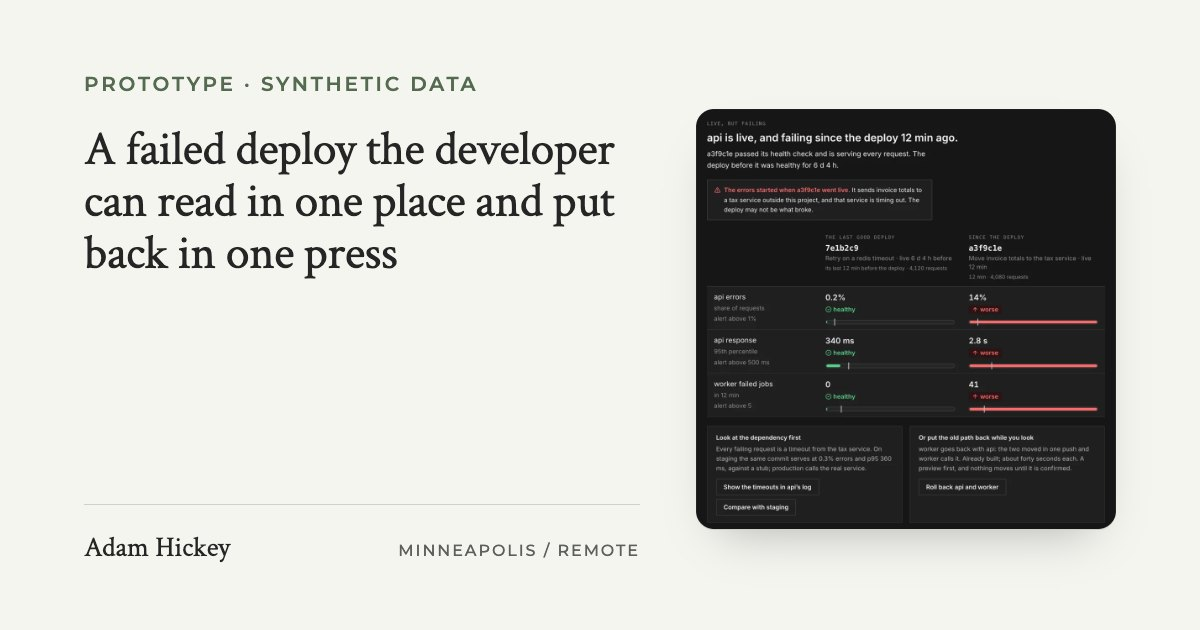
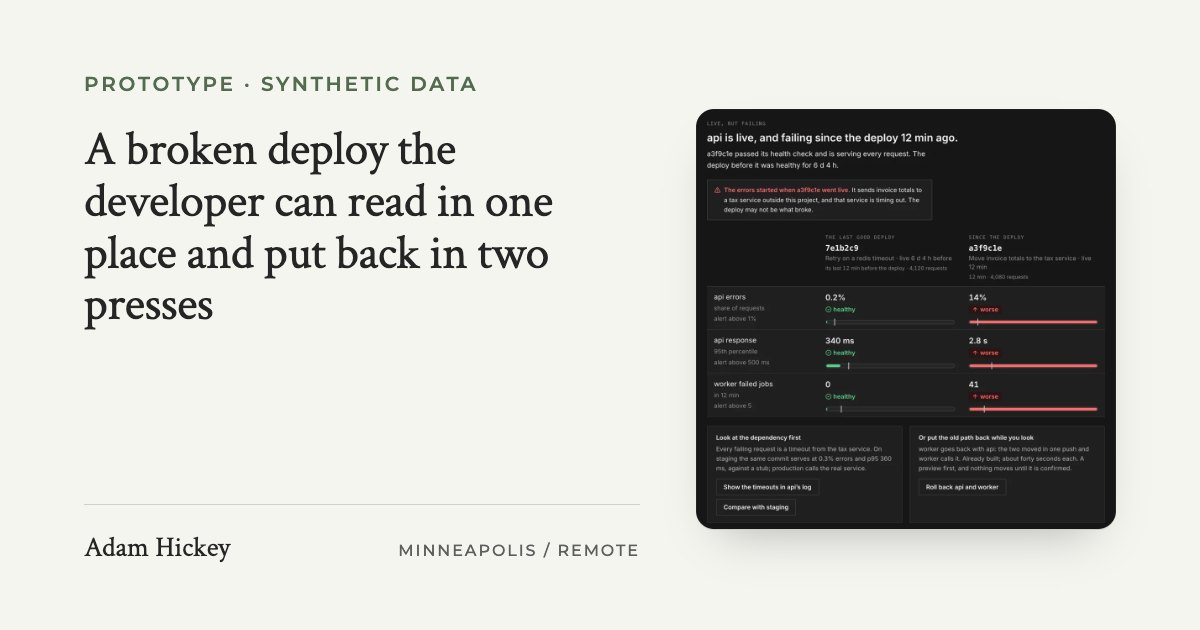
The console's page puts the prototype second, says "broken" and "two presses", and gives the hero a crop a reader can read
Three things a reviewer counted and was right about. Seven blocks stood
between the hero and the console; the console section now follows the
hero directly, with its two compact lists, and the journey figure sits
under the frame, then the problem, the decisions and the questions. The
headline said "a failed deploy" over a picture of a deploy that succeeded
and is erroring, and "one press" for a rollback that is a preview and a
confirm; it says "A broken deploy the developer can read in one place and
put back in two presses" everywhere it appears: the title, the Open Graph
title and card, the JSON-LD, the h1, the homepage card, llms.txt and the
article that links it, and the checked line under it says two presses.
And the hero printed the whole dashboard at seven-pixel type; it is the
answer's head, the note and the comparison at 900 wide now, with the
whole console at 1100 wide behind the caption's link.

The "What this is" list no longer says the console is built on this
site's system; it says whose direction it follows.

Scoped: the fast five, and all five browser checks on deploy-console and
index, green.

Changed region(s): [[0.0617, 0.3016, 0.5242, 0.5127], [0.0925, 0.2111, 0.5242, 0.2714]]

diff --git a/prototype/deploy-console.html b/prototype/deploy-console.html
@@ -11,14 +11,14 @@
   </script>
   <meta charset="utf-8" />
   <meta name="viewport" content="width=device-width, initial-scale=1" />
-  <title>A failed deploy the developer can read in one place and put back in one press | Adam Hickey</title>
+  <title>A broken deploy the developer can read in one place and put back in two presses | Adam Hickey</title>
   <meta name="description" content="A self-directed prototype of a multi-service deploy console, on synthetic data: the whole journey from the screen a developer opens before anything is wrong, through a first deploy, a failed build and a deploy that is live and failing, to a rollback previewed as a coordinated act; what is live kept apart from what is newest, a map of how the services connect, a project-level feed of what happened filterable by environment and resource, and a record of who decided." />
   <link rel="canonical" href="https://adamhickey.com/prototype/deploy-console.html" />
   <meta property="og:type" content="article" />
   <meta property="og:url" content="https://adamhickey.com/prototype/deploy-console.html" />
-  <meta property="og:title" content="A failed deploy the developer can read in one place and put back in one press | Adam Hickey" />
+  <meta property="og:title" content="A broken deploy the developer can read in one place and put back in two presses | Adam Hickey" />
   <meta property="og:description" content="A self-directed prototype of a multi-service deploy console, on synthetic data: the whole journey from the screen a developer opens before anything is wrong, through a first deploy, a failed build and a deploy that is live and failing, to a rollback previewed as a coordinated act; what is live kept apart from what is newest, a map of how the services connect, a project-level feed of what happened filterable by environment and resource, and a record of who decided." />
-  <meta property="og:image" content="https://adamhickey.com/img/og/deploy-console.jpg?v=9" />
+  <meta property="og:image" content="https://adamhickey.com/img/og/deploy-console.jpg?v=10" />
   <meta property="og:image:width" content="1200" />
   <meta property="og:image:height" content="630" />
   <meta name="twitter:card" content="summary_large_image" />
@@ -34,11 +34,11 @@
         {
           "@type": "Article",
           "@id": "https://adamhickey.com/prototype/deploy-console.html#article",
-          "headline": "A failed deploy the developer can read in one place and put back in one press",
+          "headline": "A broken deploy the developer can read in one place and put back in two presses",
           "description": "A self-directed prototype of a multi-service deploy console, on synthetic data: the whole journey from the screen a developer opens before anything is wrong, through a first deploy, a failed build and a deploy that is live and failing, to a rollback previewed as a coordinated act; what is live kept apart from what is newest, a map of how the services connect, a project-level feed of what happened filterable by environment and resource, and a record of who decided.",
           "url": "https://adamhickey.com/prototype/deploy-console.html",
           "mainEntityOfPage": "https://adamhickey.com/prototype/deploy-console.html",
-          "image": "https://adamhickey.com/img/og/deploy-console.jpg?v=9",
+          "image": "https://adamhickey.com/img/og/deploy-console.jpg?v=10",
           "datePublished": "2026-09-28",
           "dateModified": "2026-09-28",
           "author": {
@@ -105,7 +105,7 @@
             {
               "@type": "ListItem",
               "position": 3,
-              "name": "A failed deploy the developer can read in one place and put back in one press",
+              "name": "A broken deploy the developer can read in one place and put back in two presses",
               "item": "https://adamhickey.com/prototype/deploy-console.html"
             }
           ]
@@ -267,7 +267,7 @@
                 <p class="case-kicker">Multi-service deploy console &middot; working prototype &middot; synthetic data</p>
               </div>
             </div>
-            <h1 class="case-title dcw-hero-title">A failed deploy the developer can read in one place and put back in one press</h1>
+            <h1 class="case-title dcw-hero-title">A broken deploy the developer can read in one place and put back in two presses</h1>
             <p class="dcw-hero-dek">Something broke in a project of six services. The screen answers the five questions in the order they come.</p>
             <!-- The four things the prototype does, as the cockpit's hero
                  sets them since #297: a claim, then the four things that
@@ -278,7 +278,7 @@
               <li><svg class="dcw-hero-check" xmlns="http://www.w3.org/2000/svg" viewBox="0 0 24 24" fill="none" stroke="currentColor" stroke-width="2" stroke-linecap="round" stroke-linejoin="round" aria-hidden="true" focusable="false"><path d="M20 6 9 17l-5-5"/></svg><span>Keeps what&rsquo;s live apart from what&rsquo;s newest.</span></li>
               <li><svg class="dcw-hero-check" xmlns="http://www.w3.org/2000/svg" viewBox="0 0 24 24" fill="none" stroke="currentColor" stroke-width="2" stroke-linecap="round" stroke-linejoin="round" aria-hidden="true" focusable="false"><path d="M20 6 9 17l-5-5"/></svg><span>Explains a failed build on one card.</span></li>
               <li><svg class="dcw-hero-check" xmlns="http://www.w3.org/2000/svg" viewBox="0 0 24 24" fill="none" stroke="currentColor" stroke-width="2" stroke-linecap="round" stroke-linejoin="round" aria-hidden="true" focusable="false"><path d="M20 6 9 17l-5-5"/></svg><span>Previews a rollback before it runs.</span></li>
-              <li><svg class="dcw-hero-check" xmlns="http://www.w3.org/2000/svg" viewBox="0 0 24 24" fill="none" stroke="currentColor" stroke-width="2" stroke-linecap="round" stroke-linejoin="round" aria-hidden="true" focusable="false"><path d="M20 6 9 17l-5-5"/></svg><span>Puts it back in one press and undoes it in one.</span></li>
+              <li><svg class="dcw-hero-check" xmlns="http://www.w3.org/2000/svg" viewBox="0 0 24 24" fill="none" stroke="currentColor" stroke-width="2" stroke-linecap="round" stroke-linejoin="round" aria-hidden="true" focusable="false"><path d="M20 6 9 17l-5-5"/></svg><span>Puts it back in two presses and undoes it in one.</span></li>
             </ul>
             <p class="dcw-hero-act" data-read-aloud="skip after">
               <a class="btn btn-primary dcw-hero-btn" href="#try-it">Try the prototype</a>
@@ -287,9 +287,9 @@
           </div>
           <figure class="dcw-hero-figure">
             <div class="dcw-scroll">
-              <img src="../img/console/live-failing.webp?v=9" width="2040" height="2664" alt="The console on a deploy that is live and failing, on a near-black dashboard: a breadcrumb header reading Northlake, Production with a menu, api, and the time; a menu down the left for api with a red incident chip reading &ldquo;Incident, api, worker failing, 12 min&rdquo; and Overview selected in violet, then Events, Logs, Metrics, Environment, Settings, Scaling, Disks and Shell; and the answer beside it, headed &ldquo;api is live, and failing since the deploy 12 min ago&rdquo;, with a note in red saying the errors started when a3f9c1e went live and the tax service it calls is timing out, then a table comparing the last good deploy, 7e1b2c9, over its last 12 minutes and 4,120 requests, with a3f9c1e over 12 minutes and 4,080 requests: api errors 0.2% against 14%, with the alert line marked on each bar, response 340 ms against 2.8 s, worker failed jobs 0 against 41, each marked healthy in green or worse in red with a bar. Under the table, two cards of the same weight: &ldquo;Look at the dependency first&rdquo;, with the staging figures and two buttons, and &ldquo;Or put the old path back while you look&rdquo;, with a button reading &ldquo;Roll back api and worker&rdquo;; then what changed and what depends on it." />
+              <img src="../img/console/live-failing.webp?v=10" width="1160" height="1786" alt="The console on a deploy that is live and failing: a heading reading &ldquo;api is live, and failing since the deploy 12 min ago&rdquo;, a note in red saying the errors started when a3f9c1e went live and the tax service it calls is timing out, then a table comparing the last good deploy, 7e1b2c9, over its last 12 minutes and 4,120 requests, with a3f9c1e over 12 minutes and 4,080 requests: api errors 0.2% against 14%, response 340 ms against 2.8 s, worker failed jobs 0 against 41, each marked healthy in green or worse in red, with a bar and the alert line ticked on it." />
             </div>
-            <figcaption><strong>When the deploy succeeded and the errors started, the screen reads rather than refuses.</strong> The figures since the deploy beside the figures before it, the one commit, what depends on it, and the one action, asked for rather than taken. <a class="dcw-full" href="../img/console/live-failing.webp?v=9">Full size &#8599;<span class="visually-hidden">, live but failing</span></a></figcaption>
+            <figcaption><strong>When the deploy succeeded and the errors started, the screen reads rather than refuses.</strong> The figures since the deploy beside the figures before it, the one commit, what depends on it, and the one action, asked for rather than taken. <a class="dcw-full" href="../img/console/console-full.webp?v=1">The whole console &#8599;<span class="visually-hidden">, live but failing, with the header and the menu</span></a></figcaption>
           </figure>
         </div>
         <dl class="build-facts dcw-facts">
@@ -304,59 +304,16 @@
       </div>
     </header>
 
-    <!-- THE PROBLEM, first, and the one drawing on the page that is not a
-         capture: the room the interface is used in, which the interface
-         cannot show. -->
-    <section class="case-section build-chapter ground-tea" id="the-problem">
-      <div class="container">
-        <div class="case-narrow">
-          <div class="writing-measure">
-            <h2>The screens a developer opens most are the ones that open when something broke</h2>
-            <p>A developer with six services gets a message that a deploy failed, or no message and a customer. The platform has every fact: which commit is serving, which was pushed, what the build said, what the health check saw, which service calls which. Shown as two lists and a log, those facts are a puzzle with no picture on the box, and the developer reassembles the story by hand at the moment they have the least attention to spare.</p>
-            <div class="writing-pull"><p>Failure is a first-class state, not an edge case.</p></div>
-          </div>
-        </div>
-        <figure class="dcw-scene">
-          <img src="../img/console/developer-attention.webp?v=1" width="1600" height="900" loading="lazy" decoding="async" alt="An illustration of a developer at a desk late at night with two monitors, one showing a list of services and one a scrolling log, a phone lit up beside the keyboard and a mug gone cold." />
-          <figcaption>A failed deploy lands in the evening, beside a log that says what happened in the machine&rsquo;s words and a phone that says a customer noticed first.</figcaption>
-        </figure>
-        <div class="case-narrow">
-        <p class="dcw-question"><span class="dcw-question-label">The design question</span> Can one screen answer the five questions a developer asks when something broke, in the order they ask them, without hiding the parts?</p>
-        <div class="writing-measure">
-          <details class="dcw-more">
-            <summary class="disclosure-row"><svg class="disclosure-chev" viewBox="0 0 24 24" fill="none" stroke="currentColor" stroke-width="2.25" stroke-linecap="round" stroke-linejoin="round" aria-hidden="true" focusable="false"><path d="m6 9 6 6 6-6"/></svg><span class="dcw-more-label">Assumptions behind the prototype</span></summary>
-            <div class="dcw-more-body">
-              <p>Assumptions, not observations: that the five questions come in one order for most developers, that six services is the point where stitching the picture together by hand starts to cost time, and that a developer would rather see the log&rsquo;s last lines under the sentence naming the error than the whole log first. The order came from <a href="../case-study/this-site.html#checks">shipping this site</a> and reading what the log said each time something failed; a developer who has carried a pager is as likely to reorder the questions as to confirm them. The console shows six services because six fit on a screen with room to read; at sixty the table becomes a search, which is a different design.</p>
-            </div>
-          </details>
-        </div>
-        </div>
-      </div>
-    </section>
-
-    <!-- THE CONSOLE ITSELF, and the first time a reader meets the interface.
-         The problem, then the live panel, then the argument about it. -->
+    <!-- THE CONSOLE ITSELF, and the first time a reader meets the interface,
+         straight after the hero: the live panel, then the problem, then the
+         argument about it. A reviewer counted seven things between the hero
+         and the console and was right. -->
     <section class="case-section build-chapter ground-white" id="try-it">
       <div class="container">
         <div class="case-narrow">
         <div class="writing-measure">
           <h2>Try the 90-second prototype</h2>
           <p>One project, six services, five situations: the whole journey, from the screen a developer opens before anything is wrong, through a first deploy, a build that fails and a deploy that succeeds and errors, to a rollback. The screen changes shape each time, because an empty state, a refusal, a reading and a record are different kinds of answer.</p>
-          <!-- THE JOURNEY, AS A FIGURE, above the console: the five situations
-               as the arc a feature has to carry -- entry, empty, failure,
-               failure, recovery -- in the writing family's flow figure, whose
-               rising bar says the further right, the more the screen has to
-               hold. The failure that refuses carries the mark. -->
-          <figure class="writing-figure">
-            <figcaption>The whole journey, in five situations</figcaption>
-            <ol class="writing-flow">
-              <li data-level="1">Entry<small>all live: what is serving, before anything is wrong</small></li>
-              <li data-level="2">Empty<small>first deploy: a job that has never run, and what it needs</small></li>
-              <li data-level="3" class="writing-flow-mark">Failure<small>a build failed: the refusal, the live deploy untouched</small></li>
-              <li data-level="4">Failure<small>live, but failing: the reading, a decision asked for</small></li>
-              <li data-level="5">Recovery<small>rolled back: in order, with a record and a way back</small></li>
-            </ol>
-          </figure>
         </div>
         <div class="dcw-try-grid">
           <div>
@@ -373,7 +330,7 @@
               <li>Designed and built by me: plain HTML, CSS and JavaScript, no framework, no build step.</li>
               <li>Responsive and keyboard accessible, with changes announced. At 390px the table keeps three columns and folds the rest into the row.</li>
               <li>Synthetic data and a plain script, not a platform. Source: <a href="deploy-console.js">deploy-console.js</a>, the project as one object at the top.</li>
-              <li>Built on the site&rsquo;s own system, extended rather than fought: one token added, and the disclosure row, the device chrome and the motion vocabulary shared with the cockpit.</li>
+              <li>Drawn in the direction of a platform&rsquo;s own dashboard: a near-black canvas, one violet for what is selected, twenty tokens of its own declared once. The page around it stays in this site&rsquo;s system.</li>
             </ul>
           </div>
         </div>
@@ -431,6 +388,57 @@
           <noscript>
             <p>The console is built in JavaScript and it is switched off here, so the panel above is empty. The five decisions below describe what it does, one of them with captures of it running, and the source is <a href="deploy-console.js">deploy-console.js</a>, with the project as a plain object at the top.</p>
           </noscript>
+        </div>
+      </div>
+      <div class="container">
+        <div class="case-narrow">
+        <div class="writing-measure">
+          <!-- THE JOURNEY, AS A FIGURE, under the console: the five situations
+               as the arc a feature has to carry -- entry, empty, failure,
+               failure, recovery -- in the writing family's flow figure, whose
+               rising bar says the further right, the more the screen has to
+               hold. The failure that refuses carries the mark. -->
+          <figure class="writing-figure">
+            <figcaption>The whole journey, in five situations</figcaption>
+            <ol class="writing-flow">
+              <li data-level="1">Entry<small>all live: what is serving, before anything is wrong</small></li>
+              <li data-level="2">Empty<small>first deploy: a job that has never run, and what it needs</small></li>
+              <li data-level="3" class="writing-flow-mark">Failure<small>a build failed: the refusal, the live deploy untouched</small></li>
+              <li data-level="4">Failure<small>live, but failing: the reading, a decision asked for</small></li>
+              <li data-level="5">Recovery<small>rolled back: in order, with a record and a way back</small></li>
+            </ol>
+          </figure>
+        </div>
+        </div>
+      </div>
+    </section>
+
+    <!-- THE PROBLEM, after the console, and the one drawing on the page
+         that is not a capture: the room the interface is used in, which the
+         interface cannot show. -->
+    <section class="case-section build-chapter ground-tea" id="the-problem">
+      <div class="container">
+        <div class="case-narrow">
+          <div class="writing-measure">
+            <h2>The screens a developer opens most are the ones that open when something broke</h2>
+            <p>A developer with six services gets a message that a deploy failed, or no message and a customer. The platform has every fact: which commit is serving, which was pushed, what the build said, what the health check saw, which service calls which. Shown as two lists and a log, those facts are a puzzle with no picture on the box, and the developer reassembles the story by hand at the moment they have the least attention to spare.</p>
+            <div class="writing-pull"><p>Failure is a first-class state, not an edge case.</p></div>
+          </div>
+        </div>
+        <figure class="dcw-scene">
+          <img src="../img/console/developer-attention.webp?v=1" width="1600" height="900" loading="lazy" decoding="async" alt="An illustration of a developer at a desk late at night with two monitors, one showing a list of services and one a scrolling log, a phone lit up beside the keyboard and a mug gone cold." />
+          <figcaption>A failed deploy lands in the evening, beside a log that says what happened in the machine&rsquo;s words and a phone that says a customer noticed first.</figcaption>
+        </figure>
+        <div class="case-narrow">
+        <p class="dcw-question"><span class="dcw-question-label">The design question</span> Can one screen answer the five questions a developer asks when something broke, in the order they ask them, without hiding the parts?</p>
+        <div class="writing-measure">
+          <details class="dcw-more">
+            <summary class="disclosure-row"><svg class="disclosure-chev" viewBox="0 0 24 24" fill="none" stroke="currentColor" stroke-width="2.25" stroke-linecap="round" stroke-linejoin="round" aria-hidden="true" focusable="false"><path d="m6 9 6 6 6-6"/></svg><span class="dcw-more-label">Assumptions behind the prototype</span></summary>
+            <div class="dcw-more-body">
+              <p>Assumptions, not observations: that the five questions come in one order for most developers, that six services is the point where stitching the picture together by hand starts to cost time, and that a developer would rather see the log&rsquo;s last lines under the sentence naming the error than the whole log first. The order came from <a href="../case-study/this-site.html#checks">shipping this site</a> and reading what the log said each time something failed; a developer who has carried a pager is as likely to reorder the questions as to confirm them. The console shows six services because six fit on a screen with room to read; at sixty the table becomes a search, which is a different design.</p>
+            </div>
+          </details>
+        </div>
         </div>
       </div>
     </section>

diff --git a/index.html b/index.html
@@ -595,17 +595,17 @@
                morph in setupCaseMorph: neither page has a case-hero to
                morph into. -->
           <div class="case-card case-card--prototype reveal">
-            <a class="case-thumb" href="prototype/deploy-console.html" aria-label="Read the case study: A failed deploy the developer can read in one place and put back in one press">
+            <a class="case-thumb" href="prototype/deploy-console.html" aria-label="Read the case study: A broken deploy the developer can read in one place and put back in two presses">
               <img decoding="async" loading="lazy" src="img/console/slide-failing.webp?v=9" alt="The console on a deploy that is live and failing, on a near-black dashboard: a note in red saying the errors started when a3f9c1e went live, then a table comparing the last good deploy, 7e1b2c9, with a3f9c1e, row by row: api errors 0.2% healthy in green against 14% worse in red, api response 340 ms against 2.8 s, each with a bar. A third row begins at the bottom edge." width="1360" height="1020"/>
             </a>
             <div class="case-card-body">
-              <h3>A failed deploy the developer can read in one place and put back in one press</h3>
+              <h3>A broken deploy the developer can read in one place and put back in two presses</h3>
               <p class="case-desc">An independent prototype on fictional data, not client work.</p>
               <ul class="case-checks">
                 <li><svg class="case-check" xmlns="http://www.w3.org/2000/svg" viewBox="0 0 24 24" fill="none" stroke="currentColor" stroke-width="2" stroke-linecap="round" stroke-linejoin="round" aria-hidden="true" focusable="false"><path d="M20 6 9 17l-5-5"/></svg><span>Keeps what&rsquo;s live apart from what&rsquo;s newest.</span></li>
                 <li><svg class="case-check" xmlns="http://www.w3.org/2000/svg" viewBox="0 0 24 24" fill="none" stroke="currentColor" stroke-width="2" stroke-linecap="round" stroke-linejoin="round" aria-hidden="true" focusable="false"><path d="M20 6 9 17l-5-5"/></svg><span>Explains a failed build on one card.</span></li>
                 <li><svg class="case-check" xmlns="http://www.w3.org/2000/svg" viewBox="0 0 24 24" fill="none" stroke="currentColor" stroke-width="2" stroke-linecap="round" stroke-linejoin="round" aria-hidden="true" focusable="false"><path d="M20 6 9 17l-5-5"/></svg><span>Previews a rollback before it runs.</span></li>
-                <li><svg class="case-check" xmlns="http://www.w3.org/2000/svg" viewBox="0 0 24 24" fill="none" stroke="currentColor" stroke-width="2" stroke-linecap="round" stroke-linejoin="round" aria-hidden="true" focusable="false"><path d="M20 6 9 17l-5-5"/></svg><span>Puts it back in one press and undoes it in one.</span></li>
+                <li><svg class="case-check" xmlns="http://www.w3.org/2000/svg" viewBox="0 0 24 24" fill="none" stroke="currentColor" stroke-width="2" stroke-linecap="round" stroke-linejoin="round" aria-hidden="true" focusable="false"><path d="M20 6 9 17l-5-5"/></svg><span>Puts it back in two presses and undoes it in one.</span></li>
               </ul>
               <div class="tag-row">
                 <span class="tag">Developer tools</span>

diff --git a/writing/what-does-a-developer-need-from-an-interface-on-a-bad-day.html b/writing/what-does-a-developer-need-from-an-interface-on-a-bad-day.html
@@ -390,7 +390,7 @@
              engagement it describes and the account it draws on. A text line
              rather than a pitch, for the same reason the case studies end on
              one. -->
-        <p class="build-service">The same argument, built: <a href="../prototype/deploy-console.html">a failed deploy the developer can read in one place and put back in one press</a>, a working prototype on synthetic data. The account this draws on: <a href="../case-study/this-site.html">How I built this site</a>, where every incident above is written up with its fix, and <a href="designing-for-the-moment-the-workflow-breaks.html">the moment the workflow breaks</a>, where the same questions are asked on an operations floor. How I do this on a team: <a href="../engagement/embedded-senior-product-design.html">own the design inside the team, not beside it</a>, in its repository.</p>
+        <p class="build-service">The same argument, built: <a href="../prototype/deploy-console.html">a broken deploy the developer can read in one place and put back in two presses</a>, a working prototype on synthetic data. The account this draws on: <a href="../case-study/this-site.html">How I built this site</a>, where every incident above is written up with its fix, and <a href="designing-for-the-moment-the-workflow-breaks.html">the moment the workflow breaks</a>, where the same questions are asked on an operations floor. How I do this on a team: <a href="../engagement/embedded-senior-product-design.html">own the design inside the team, not beside it</a>, in its repository.</p>
         <a class="build-next" href="designing-for-the-moment-the-workflow-breaks.html">
           <span class="build-next-eyebrow">Next</span>
           <span class="build-next-title">Designing for the moment the workflow breaks &rarr;</span>
